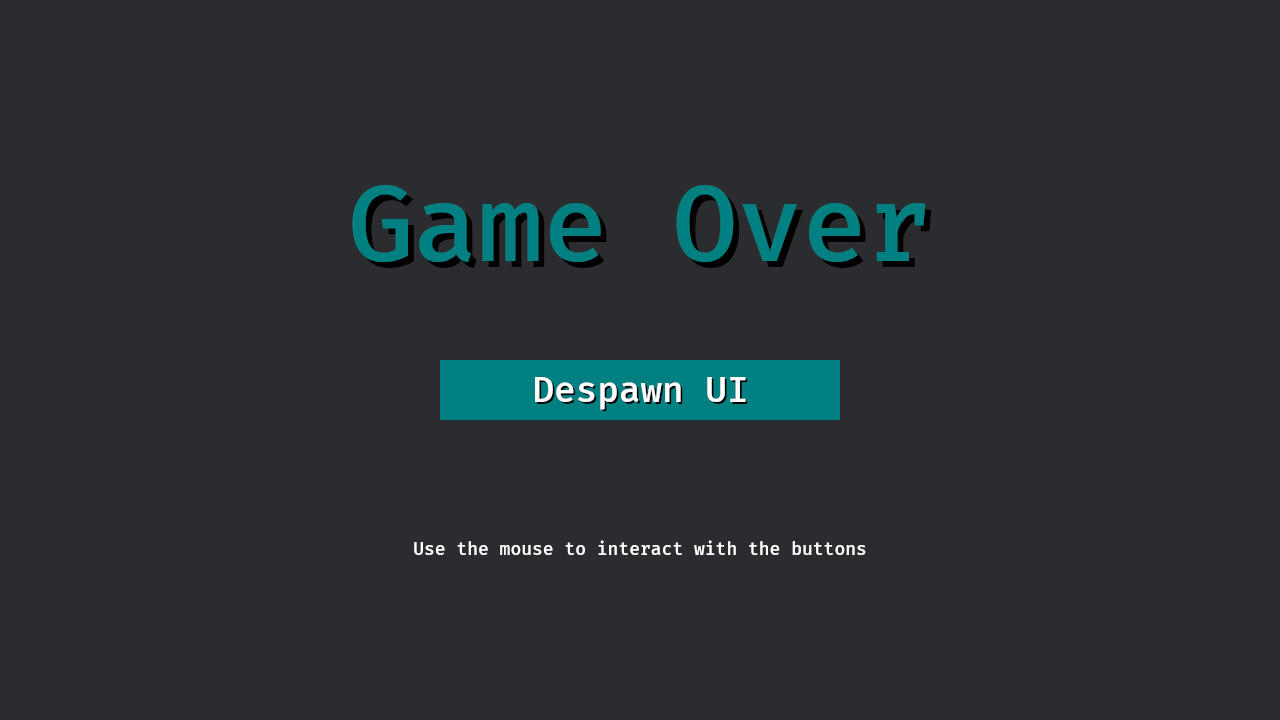
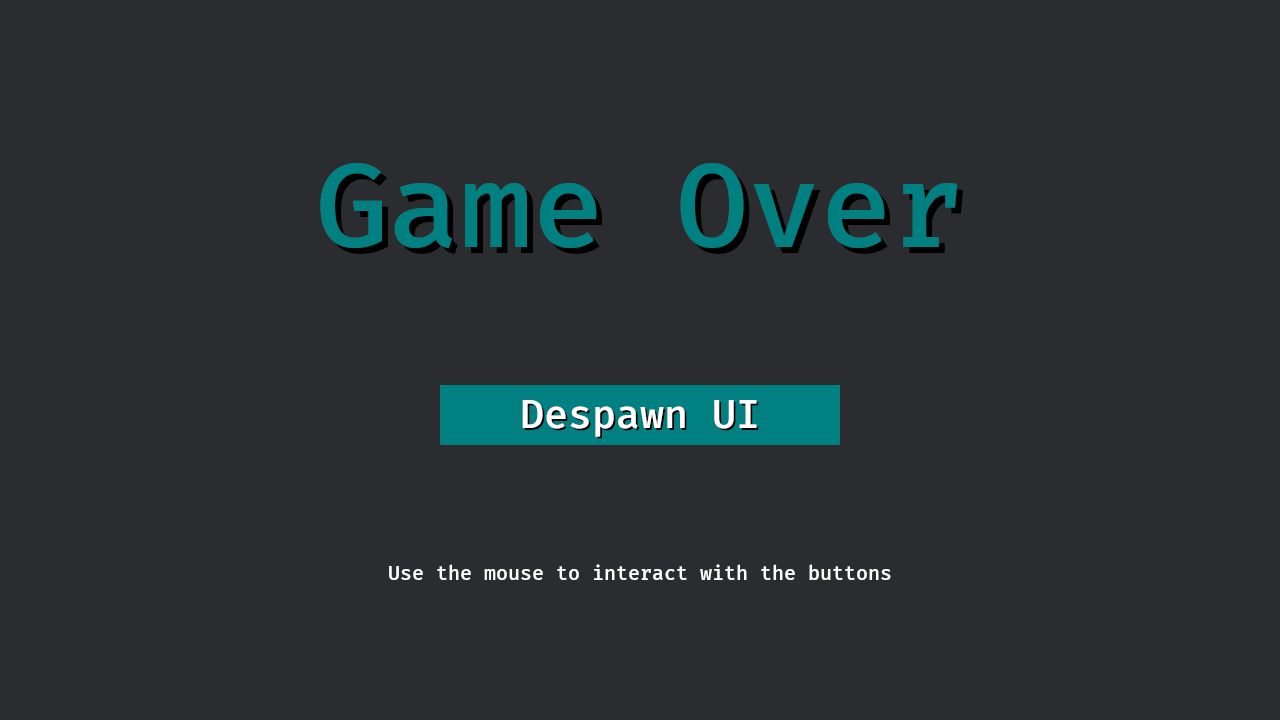
Change default text sizes

diff --git a/examples/showcase.rs b/examples/showcase.rs
@@ -19,25 +19,28 @@ fn spawn_ui(mut commands: Commands) {
 
     let root = Root::new();
 
-    let top = Container::new();
-    let middle = Container::new().row().justify_between();
+    let top = Container::height(Val::Percent(30.0));
+    let middle = Container::height(Val::Percent(40.0))
+        .row()
+        .justify_between();
     let left = Container::width(Val::Percent(50.0))
         .background_color(palettes::css::DARK_BLUE.into())
         .justify_around();
     let right = Container::width(Val::Percent(50.0))
         .background_color(palettes::css::DARK_RED.into())
         .justify_around();
-    let bottom = Container::new().background_color(palettes::css::GOLDENROD.into());
+    let bottom =
+        Container::height(Val::Percent(30.0)).background_color(palettes::css::GOLDENROD.into());
 
     let title =
-        EmbossedText::large("bevy_ui_bits has:", font).color(palettes::css::GOLDENROD.into());
-    let simple_text = SimpleText::medium("Simple text,", font);
-    let embossed_text = EmbossedText::medium("Embossed text,", font);
-    let dynamic_text = DynamicTextBuilder::small("Dynamic text: ", font)
+        EmbossedText::large("bevy_ui_bits has", font).color(palettes::css::GOLDENROD.into());
+    let simple_text = SimpleText::medium("Simple text", font);
+    let embossed_text = EmbossedText::medium("Embossed text", font);
+    let dynamic_text = DynamicTextBuilder::medium("Dynamic text: ", font)
         .id(HEART_TEXT_ID)
         .initial_dynamic_text("0");
     let rectangle_button = UiButton::rectangle().background_color(palettes::css::GOLDENROD.into());
-    let rectangle_button_text = EmbossedText::medium("Buttons,", font);
+    let rectangle_button_text = EmbossedText::medium("Buttons", font);
     let square_button = UiButton::square()
         .id(HEART_BUTTON_ID)
         .background_color(palettes::css::MIDNIGHT_BLUE.into());
@@ -53,7 +56,7 @@ fn spawn_ui(mut commands: Commands) {
                 children![
                     (
                         left,
-                        children![simple_text, dynamic_text.build(), embossed_text]
+                        children![simple_text, embossed_text, dynamic_text.build()]
                     ),
                     (
                         right,

diff --git a/examples/readme.rs b/examples/readme.rs
@@ -17,18 +17,16 @@ fn spawn_ui(mut commands: Commands) {
     let root = Root::new();
 
     // Container is the typical layout component
-    let main_container = Container::height(Val::Px(400.0)).justify_between();
+    let main_container = Container::height(Val::Px(500.0)).justify_between();
 
     // Customize components fluently using a builder-lite pattern
-    let title = EmbossedText::large("My Game", font)
-        .color(palettes::css::GOLD.into())
-        .shadow(palettes::css::MIDNIGHT_BLUE.into());
+    let title = EmbossedText::large("My Game", font).color(palettes::css::GOLD.into());
 
     // UiButton provides a button with opinionated settings
-    let play = UiButton::rectangle().background_color(palettes::css::MIDNIGHT_BLUE.into());
+    let play = UiButton::rectangle().background_color(palettes::css::GOLD.into());
     let play_text = EmbossedText::medium("Play", font);
 
-    let by = SimpleText::medium("By me", font);
+    let by = SimpleText::small("By me", font);
 
     // Use the new Spawn API to spawn the UI tree
     commands.spawn((

diff --git a/examples/hud.rs b/examples/hud.rs
@@ -25,15 +25,13 @@ fn spawn_hud(mut commands: Commands) {
     let font = &Handle::default();
 
     let root = Root::new()
-        .padding(UiRect::all(Val::Px(30.0)))
+        .padding(UiRect::all(Val::Px(20.0)))
         .justify_between();
 
     let top = Container::height(Val::Auto).row().justify_between();
     let bottom = Container::height(Val::Auto);
 
-    let level = EmbossedText::medium("Level 1", font)
-        .color(palettes::css::GOLD.into())
-        .shadow(palettes::css::MIDNIGHT_BLUE.into());
+    let level = EmbossedText::medium("Level 1", font).color(palettes::css::GOLD.into());
     let jumps = DynamicTextBuilder::medium("Jumps: ", font)
         .initial_dynamic_text("0")
         .id(JUMPS_TEXT_ID);

diff --git a/src/text/mod.rs b/src/text/mod.rs
@@ -9,16 +9,16 @@ pub use simple::SimpleText;
 use bevy::prelude::*;
 
 /// Small font size
-const SIZE_SMALL: f32 = 18.0;
+const SIZE_SMALL: f32 = 20.0;
 
 /// Medium font size
-const SIZE_MEDIUM: f32 = 36.0;
+const SIZE_MEDIUM: f32 = 40.0;
 
 /// Large font size
-const SIZE_LARGE: f32 = 90.0;
+const SIZE_LARGE: f32 = 100.0;
 
 /// Extra large font size
-const SIZE_EXTRA_LARGE: f32 = 108.0;
+const SIZE_EXTRA_LARGE: f32 = 120.0;
 
 /// Common interface for the text bundles
 pub trait UiText: Default {

diff --git a/examples/main_menu.rs b/examples/main_menu.rs
@@ -35,7 +35,7 @@ fn spawn_main_menu(mut commands: Commands) {
     let font = &Handle::default();
 
     let root = Root::new();
-    let container = Container::height(Val::Px(500.0)).justify_between();
+    let container = Container::height(Val::Px(550.0)).justify_between();
     let top = Container::size(Val::Auto, Val::Auto);
     let bottom = Container::height(Val::Px(200.0)).justify_between();
     let actions = Container::size(Val::Auto, Val::Auto);

diff --git a/examples/despawn.rs b/examples/despawn.rs
@@ -26,7 +26,7 @@ fn spawn_main_menu(mut commands: Commands) {
 
     let root = Root::new();
 
-    let container = Container::height(Val::Px(400.0)).justify_between();
+    let container = Container::height(Val::Px(450.0)).justify_between();
     let top = Container::height(Val::Auto);
     let bottom = Container::height(Val::Px(200.0)).justify_between();
     let actions = Container::height(Val::Auto);

diff --git a/README.md b/README.md
@@ -27,18 +27,16 @@ fn spawn_ui(mut commands: Commands) {
     let root = Root::new();
 
     // Container is the typical layout component
-    let main_container = Container::height(Val::Px(400.0)).justify_between();
+    let main_container = Container::height(Val::Px(500.0)).justify_between();
 
     // Customize components fluently using a builder-lite pattern
-    let title = EmbossedText::large("My Game", font)
-        .color(palettes::css::GOLD.into())
-        .shadow(palettes::css::MIDNIGHT_BLUE.into());
+    let title = EmbossedText::large("My Game", font).color(palettes::css::GOLD.into());
 
     // UiButton provides a button with opinionated settings
-    let play = UiButton::rectangle().background_color(palettes::css::MIDNIGHT_BLUE.into());
+    let play = UiButton::rectangle().background_color(palettes::css::GOLD.into());
     let play_text = EmbossedText::medium("Play", font);
 
-    let by = SimpleText::medium("By me", font);
+    let by = SimpleText::small("By me", font);
 
     // Use the new Spawn API to spawn the UI tree
     commands.spawn((
